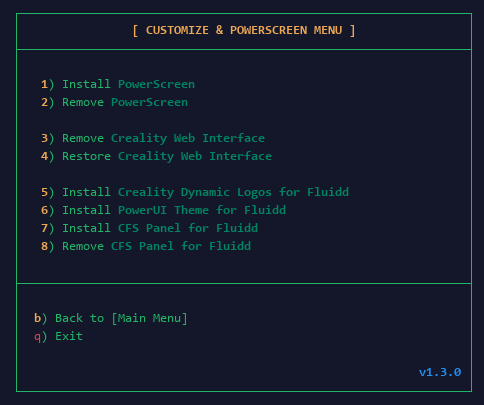
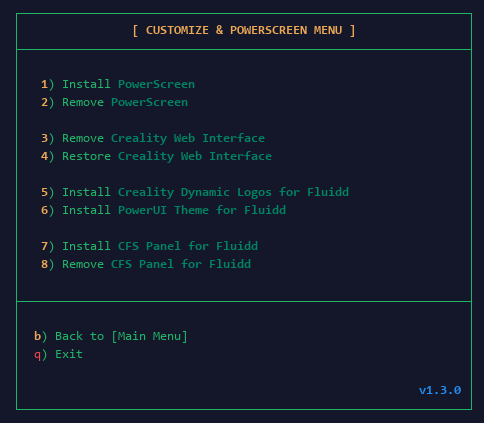
Group the Customize menu options in pairs
The two options of the CFS Panel for Fluidd (install and remove) have their own group in the Customize & PowerScreen menu, apart from the Creality Dynamic Logos and the PowerUI Theme. The menu screenshot of the README and the changelog are updated. Version 1.3.1.

diff --git a/CHANGELOG.md b/CHANGELOG.md
@@ -2,6 +2,11 @@
 
 All notable changes to the CFS Power Script. Each release on GitHub carries the entry of its version.
 
+## v1.3.1
+
+### Changed
+- **Customize & PowerScreen menu:** the options are now grouped in pairs. *Install CFS Panel for Fluidd* and *Remove CFS Panel for Fluidd* (options 7 and 8) have their own group, apart from the Creality Dynamic Logos and the PowerUI Theme (options 5 and 6). The menu screenshots of the README are the ones of this version.
+
 ## v1.3.0
 
 ### Added
